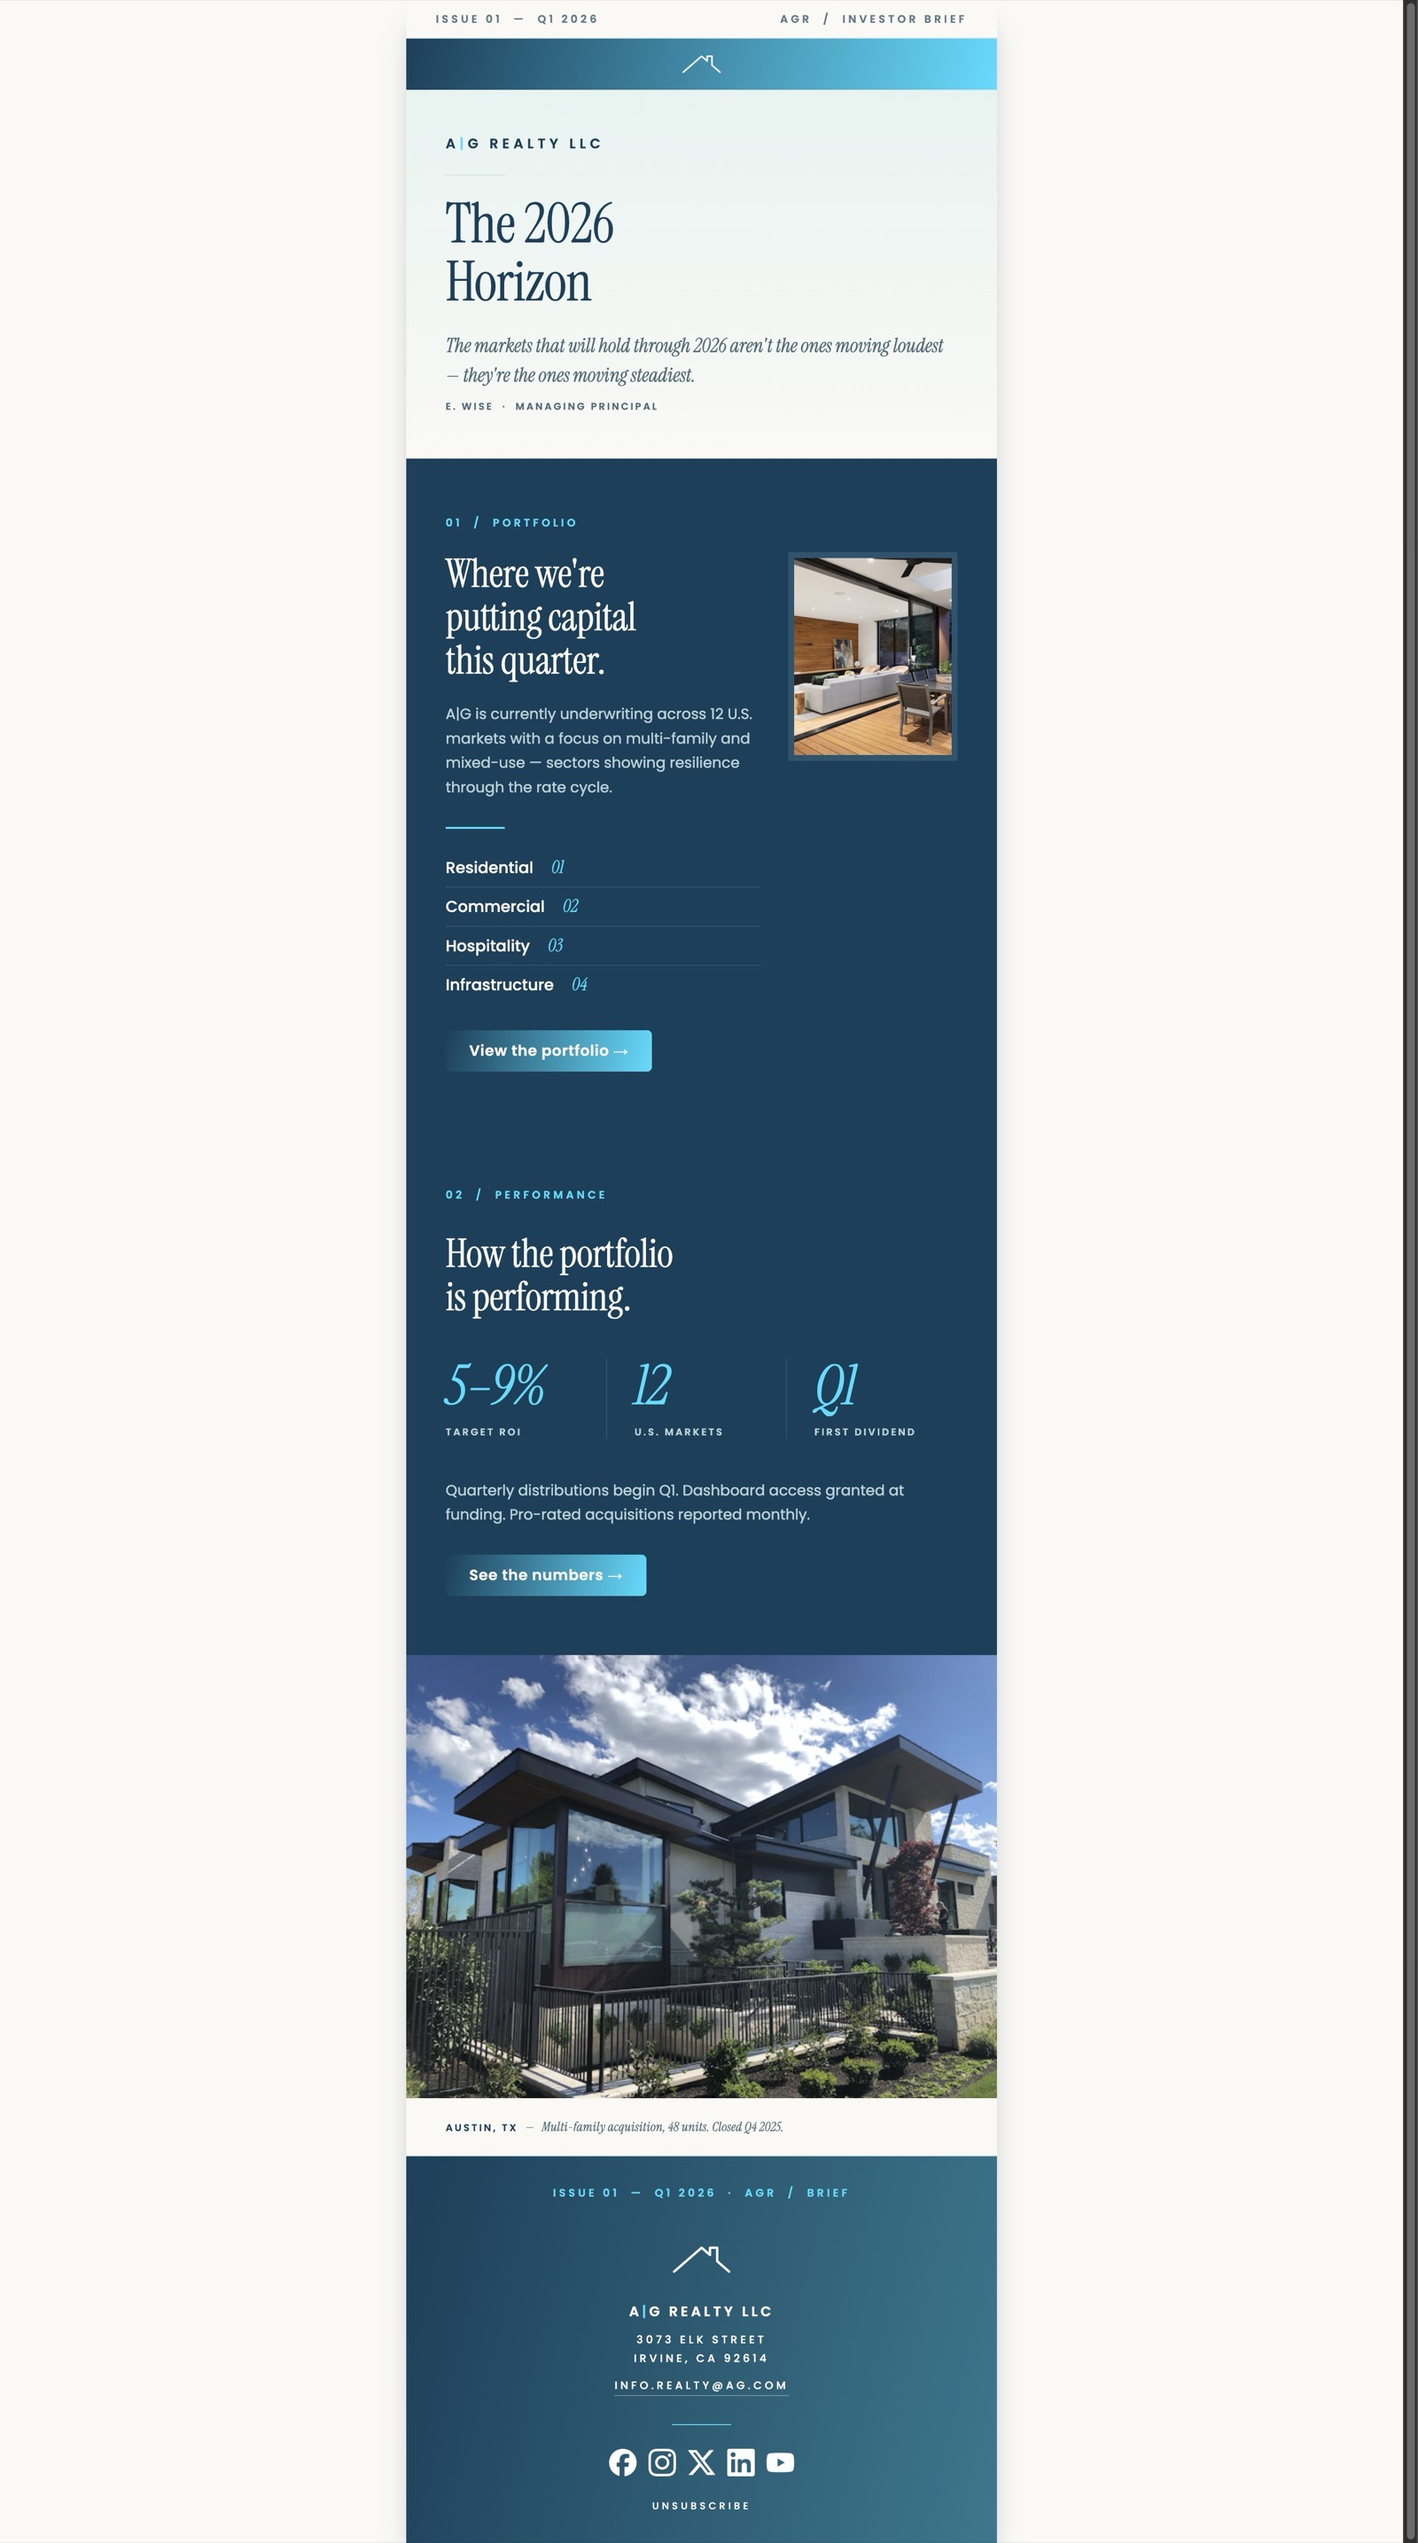
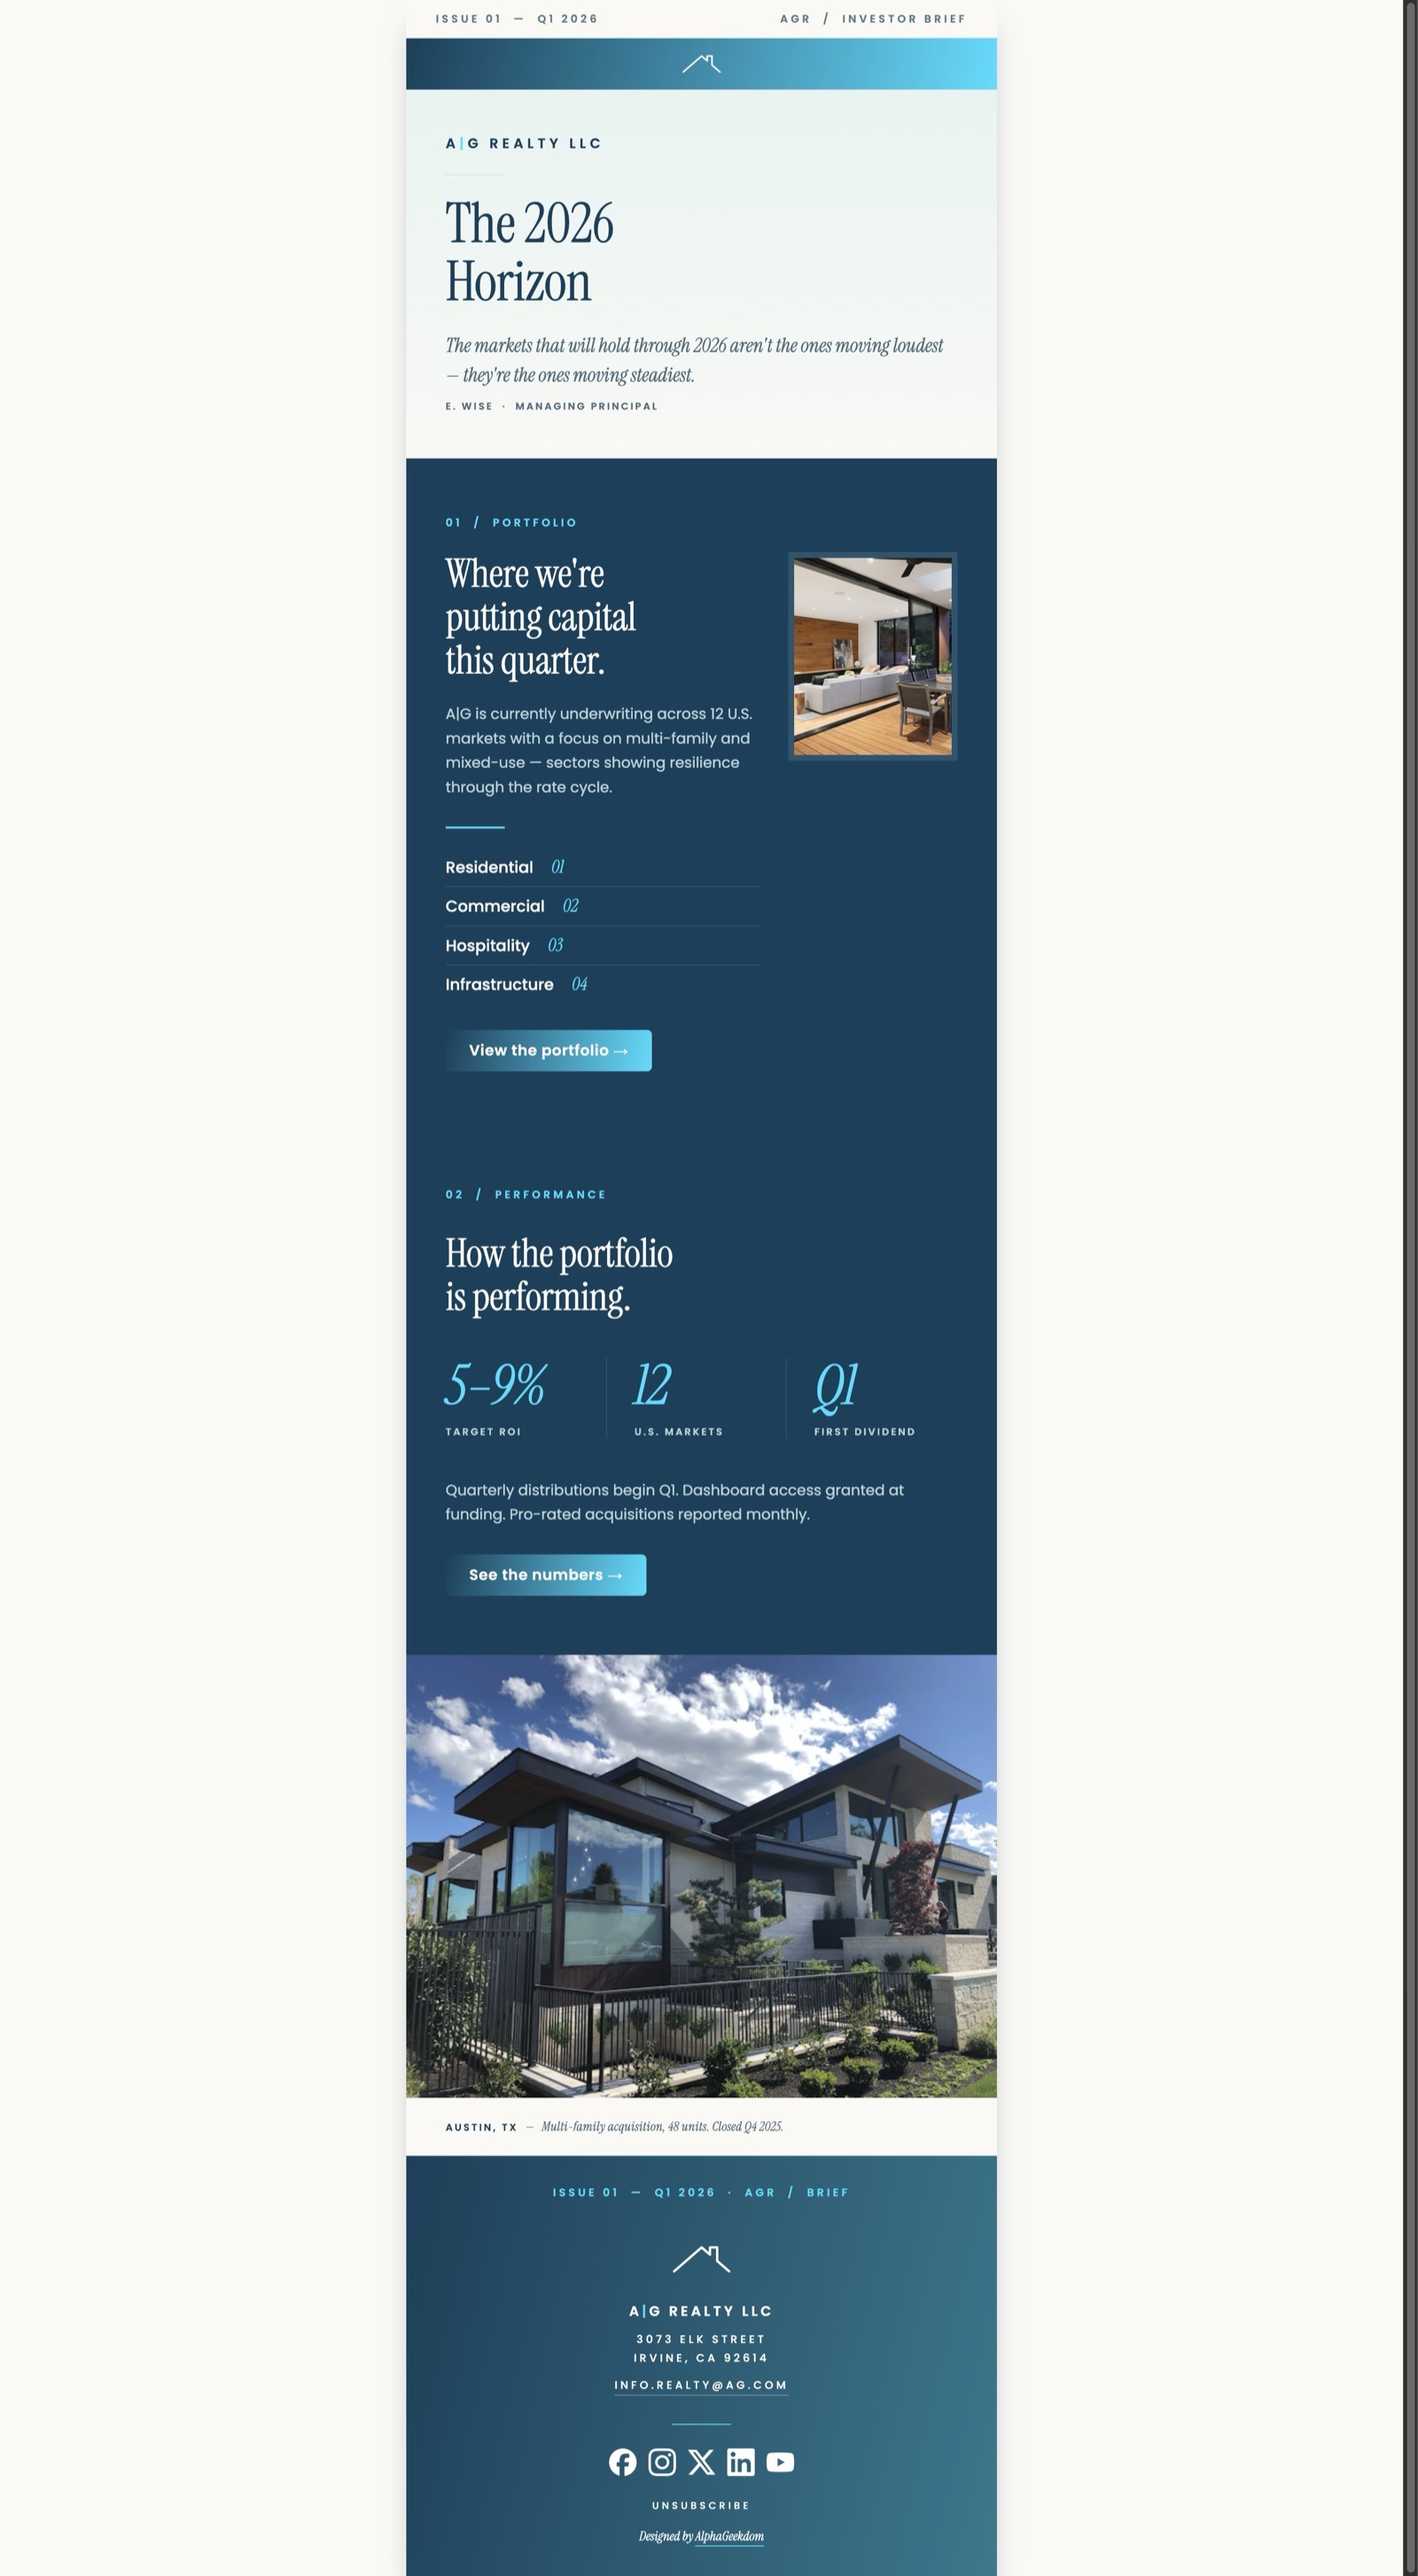
feat(footer): add designer colophon with WCAG AA accessibility
- Add italic Instrument Serif "Designed by AlphaGeekdom" colophon below the unsubscribe link, separated by a 16px spacer; AlphaGeekdom is the link to https://www.alphageekdom.com
- Echo the email's "13px italic serif = editorial credit line" pattern already established by the banner caption — second instance, positioned as the closing signature, the only italic serif in an otherwise Poppins-uppercase footer
- Color #ffffff (matches every other footer text element); contrast 4.95:1 against the muted teal gradient endpoint, comfortably above WCAG AA 4.5:1
- Cyan #00dfff border-bottom on the link instead of color-only differentiation, satisfying WCAG 1.4.1 (color not the only means of conveying link affordance)
- aria-label="Designed by AlphaGeekdom (opens in new tab)" announces target change for screen readers
- rel="noopener" on target="_blank" for tab security
- Re-capture desktop.jpeg and mobile.jpeg to include the colophon in the footer; recompress via macOS sips (1600px desktop resize + JPEG quality 72) keeping total screenshot weight at 1.1MB

Changed region(s): [[0.2812, 0.4653, 0.7188, 0.9927], [0.3125, 0.031, 0.6562, 0.4343], [0.5625, 0.2171, 0.6875, 0.3102]]

diff --git a/index.html b/index.html
@@ -2245,6 +2245,72 @@
                               </td>
                             </tr>
                           </table>
+
+                          <!-- 16px spacer -->
+                          <table
+                            role="presentation"
+                            width="100%"
+                            cellspacing="0"
+                            cellpadding="0"
+                            border="0"
+                          >
+                            <tr>
+                              <td
+                                height="16"
+                                style="
+                                  height: 16px;
+                                  font-size: 0;
+                                  line-height: 0;
+                                "
+                              >
+                                &nbsp;
+                              </td>
+                            </tr>
+                          </table>
+
+                          <!-- Designer colophon -->
+                          <table
+                            role="presentation"
+                            width="100%"
+                            cellspacing="0"
+                            cellpadding="0"
+                            border="0"
+                          >
+                            <tr>
+                              <td
+                                align="center"
+                                style="
+                                  font-family:
+                                    'Instrument Serif', Georgia,
+                                    'Times New Roman', serif;
+                                  font-style: italic;
+                                  font-size: 13px;
+                                  font-weight: 400;
+                                  color: #ffffff;
+                                  line-height: 1.4;
+                                "
+                              >
+                                Designed by
+                                <a
+                                  href="https://www.alphageekdom.com"
+                                  target="_blank"
+                                  rel="noopener"
+                                  aria-label="Designed by AlphaGeekdom (opens in new tab)"
+                                  style="
+                                    font-family:
+                                      'Instrument Serif', Georgia,
+                                      'Times New Roman', serif;
+                                    font-style: italic;
+                                    color: #ffffff;
+                                    text-decoration: none;
+                                    border-bottom: 1px solid #00dfff;
+                                    padding-bottom: 1px;
+                                  "
+                                  >AlphaGeekdom</a
+                                >
+                              </td>
+                            </tr>
+                          </table>
                         </td>
                       </tr>
                     </table>
